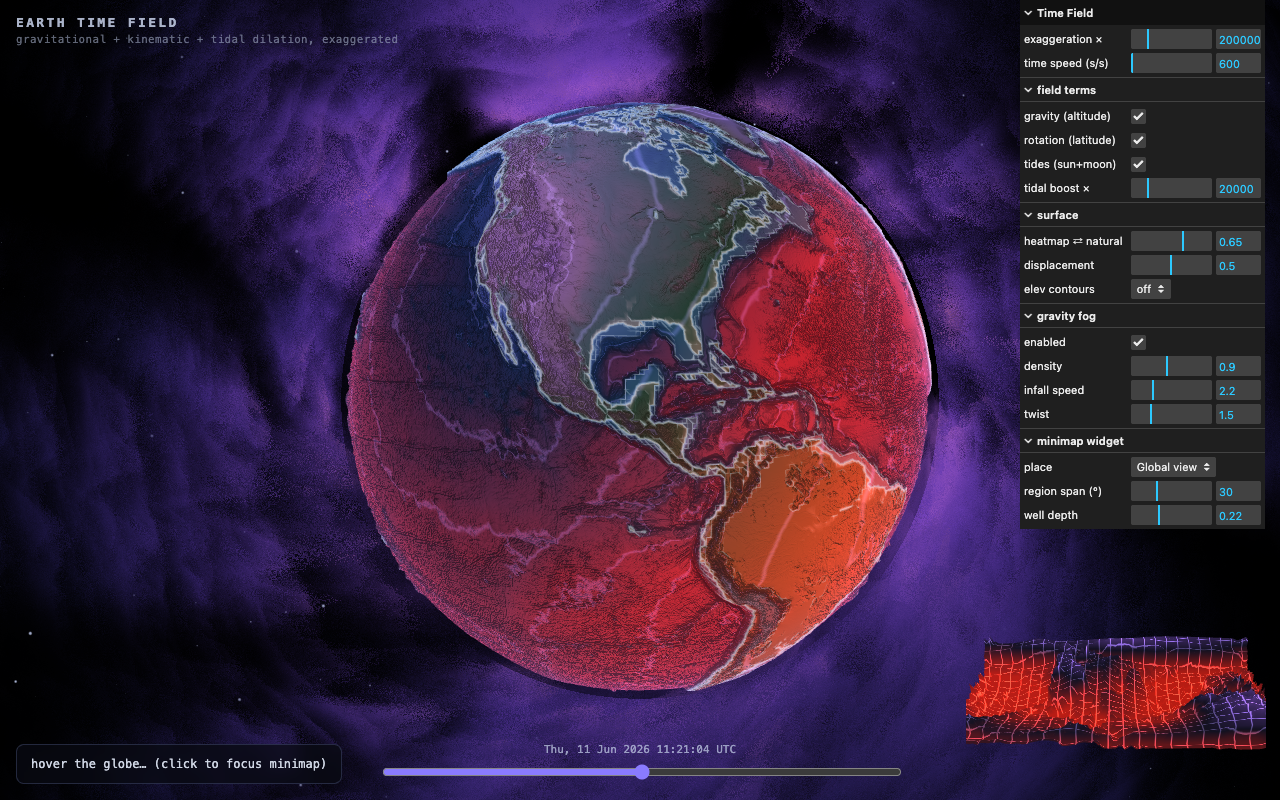
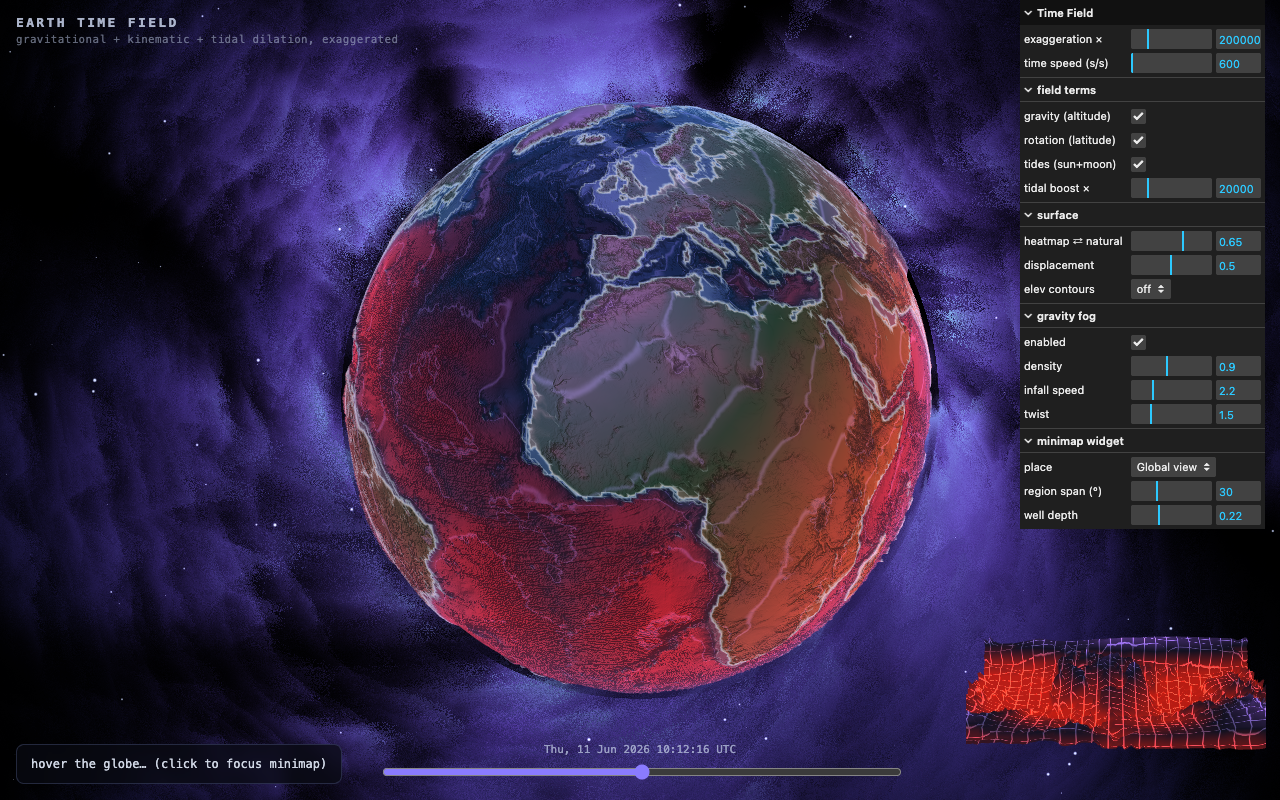
Fix topology/cursor desync; make gravity fog visible over the surface
- SphereGeometry uv.x=0 sits at scene lon -90, not -180: shift heightmap
  sampling by +0.25 in u so texture lon matches the geometric frame used by
  the raycaster HUD, minimap, and sun terminator. (Root cause of Tokyo /
  elevation readout mismatch; vertex shader was also sampling the unshifted
  uv for elevation while the fragment used vUv.) Calibrated empirically:
  Greenwich now faces geometric lon 0.
- Fog: additive blending + near-surface streams shifted to hot cyan-white
  so infall reads against the red/violet surface heatmap.

diff --git a/web/src/shaders.js b/web/src/shaders.js
@@ -73,9 +73,12 @@ export const earthVertex = /* glsl */ `
   varying float vDeviation;
 
   void main() {
-    vUv = uv;
+    // SphereGeometry's uv.x=0 sits at scene lon -90; the equirect heightmap
+    // expects lon -180 there. Shift by +0.25 so texture lon == geometric lon
+    // (raycaster/HUD/sun/minimap all use the geometric frame).
+    vUv = vec2(uv.x + 0.25, uv.y);
     vSphere = normalize(position);
-    vElev = sampleElev(uv);
+    vElev = sampleElev(vUv);
     vDeviation = timeRateDeviation(vSphere, vElev);
 
     // baked terrain relief (subtle, fixed) + field-driven displacement
@@ -295,7 +298,9 @@ export const fogFragment = /* glsl */ `
       // emission: faint blue haze far out -> violet -> warm filaments near earth
       float closeness = clamp((u_shellOuter - r) / (u_shellOuter - 1.0), 0.0, 1.0);
       vec3 emit = mix(vec3(0.03, 0.05, 0.13), vec3(0.45, 0.25, 0.85), pow(closeness, 2.0));
-      emit = mix(emit, vec3(1.0, 0.55, 0.25), pow(closeness, 6.0) * d);
+      // near-surface streams go hot cyan-white: contrasts against the red/violet
+      // surface heatmap instead of melting into it
+      emit = mix(emit, vec3(0.60, 0.95, 1.05), pow(closeness, 5.0) * clamp(d * 1.5, 0.0, 1.0));
       float a = 1.0 - exp(-d * dt * 18.0);
       acc += trans * a * emit;
       trans *= 1.0 - a * 0.85;

diff --git a/web/src/main.js b/web/src/main.js
@@ -125,6 +125,7 @@ const fogMat = new THREE.ShaderMaterial({
   },
   transparent: true,
   depthWrite: false,
+  blending: THREE.AdditiveBlending, // streams glow over the surface
   side: THREE.BackSide, // works from outside and inside the shell
 });
 const fog = new THREE.Mesh(new THREE.SphereGeometry(SHELL_OUTER, 48, 24), fogMat);
